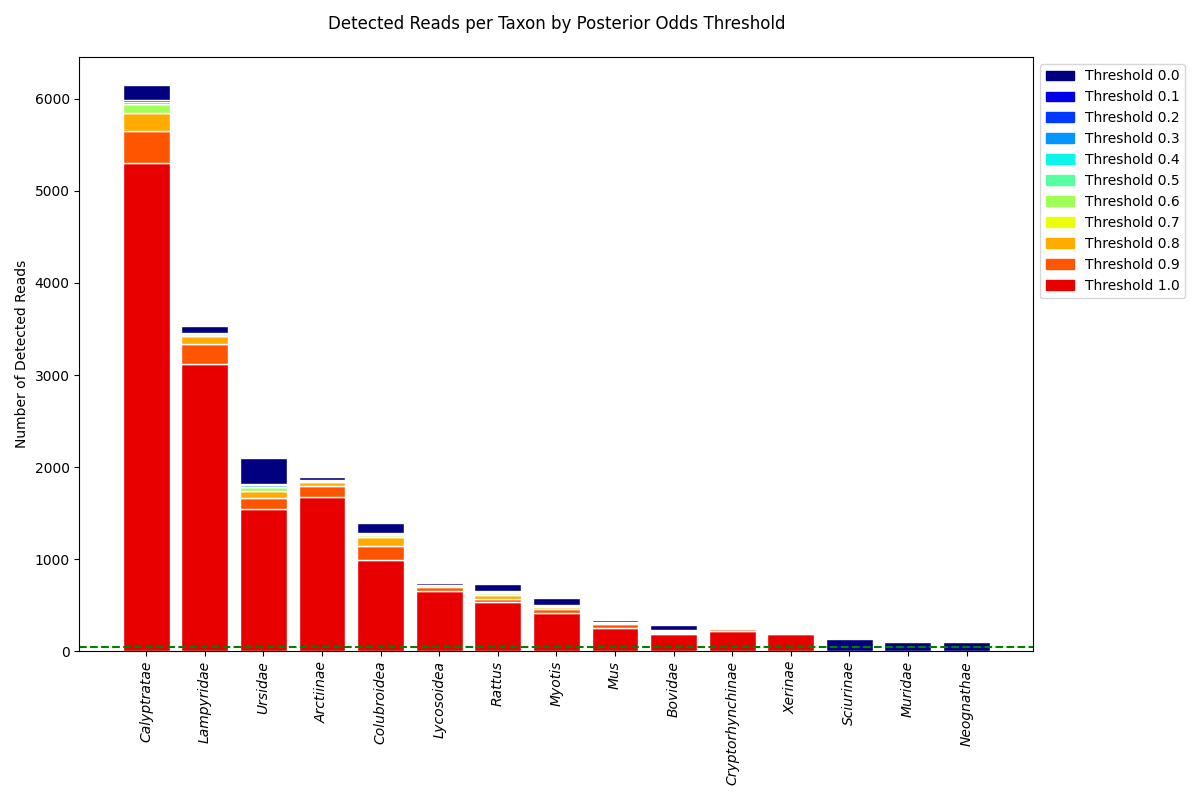
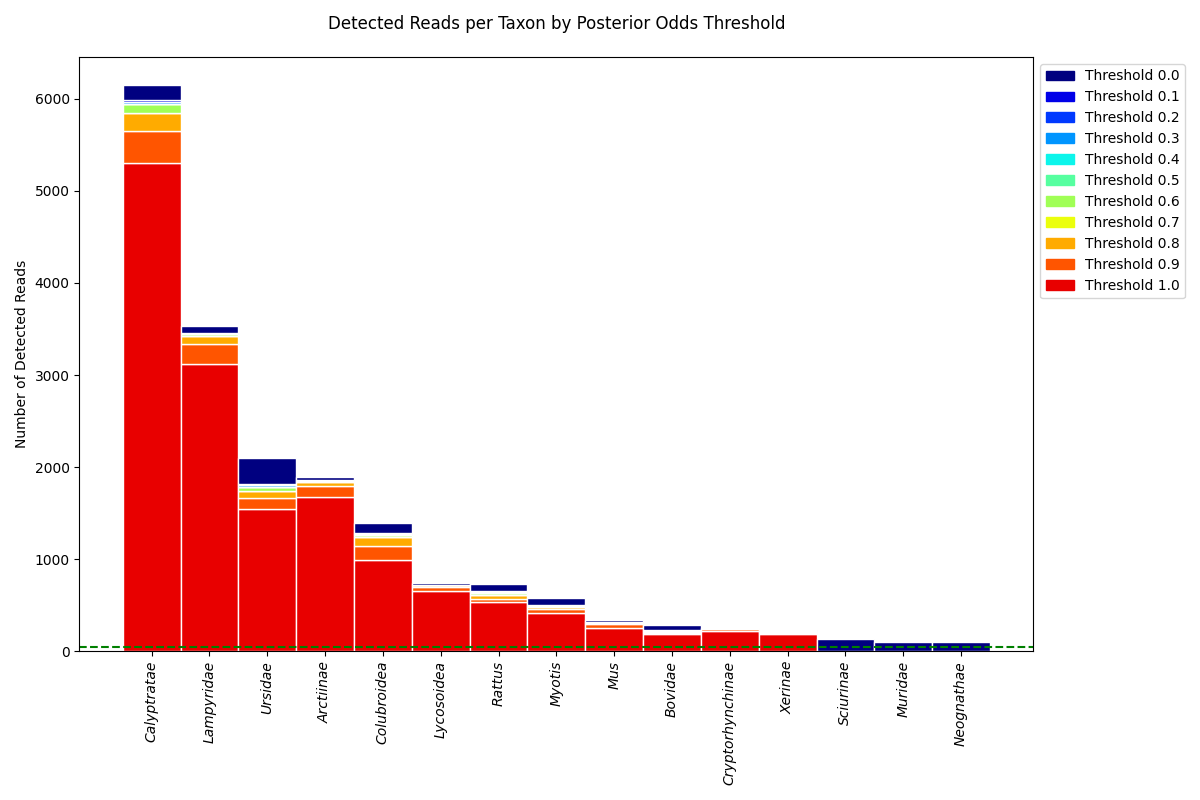
Update

diff --git a/euka_results/plot.py b/euka_results/plot.py
@@ -43,7 +43,7 @@ def plot_data(incremental_data_by_taxon, data_by_taxon):
     print(colors)
 
     fig, ax = plt.subplots(figsize=(12, 8))
-    bar_width = 0.8
+    bar_width = 1.0
 
     for i, taxon in enumerate(sorted_taxa):
         heights = np.array([val[1] for val in incremental_data_by_taxon[taxon]])
